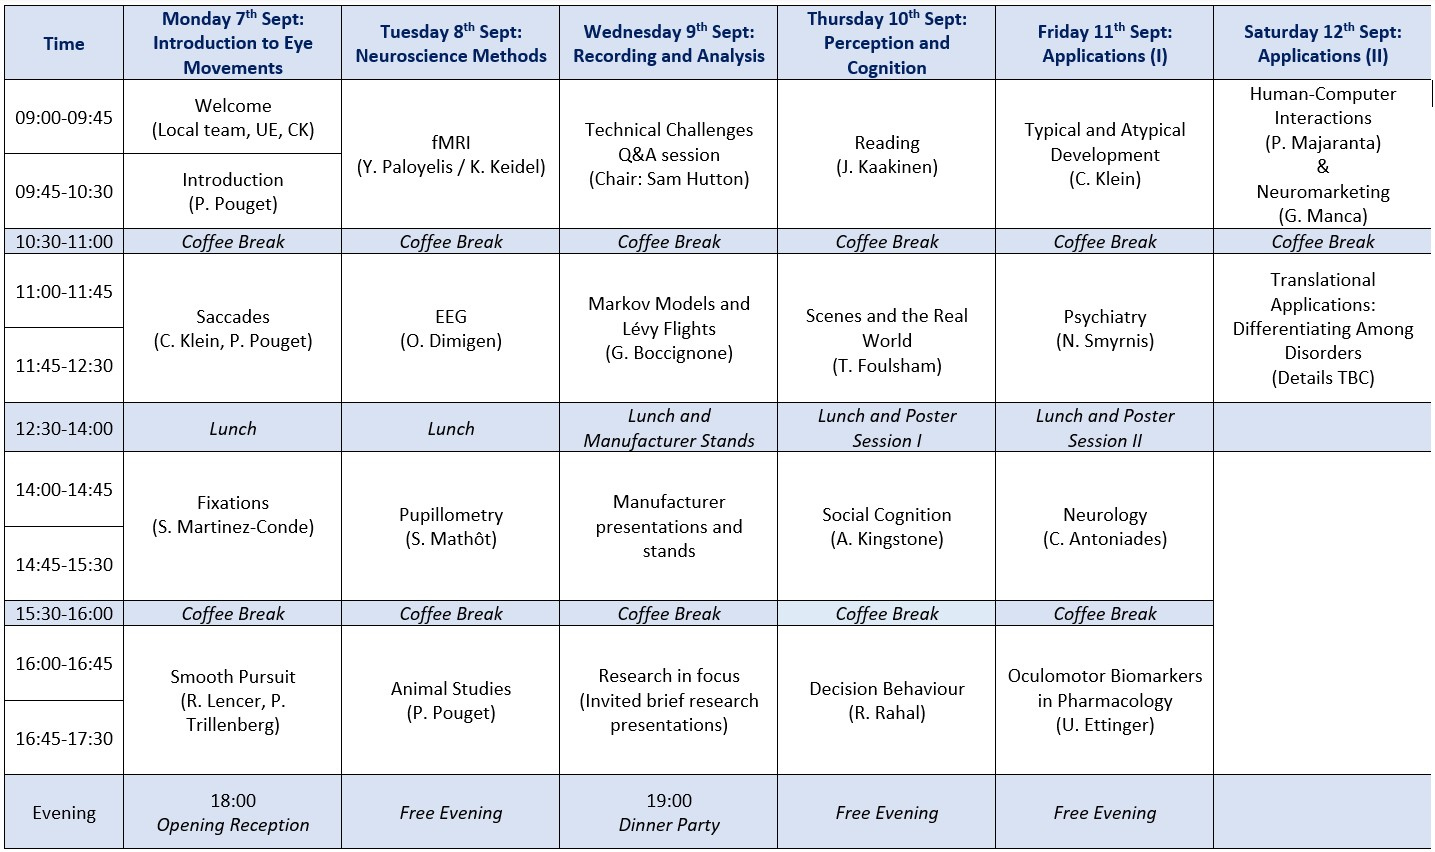
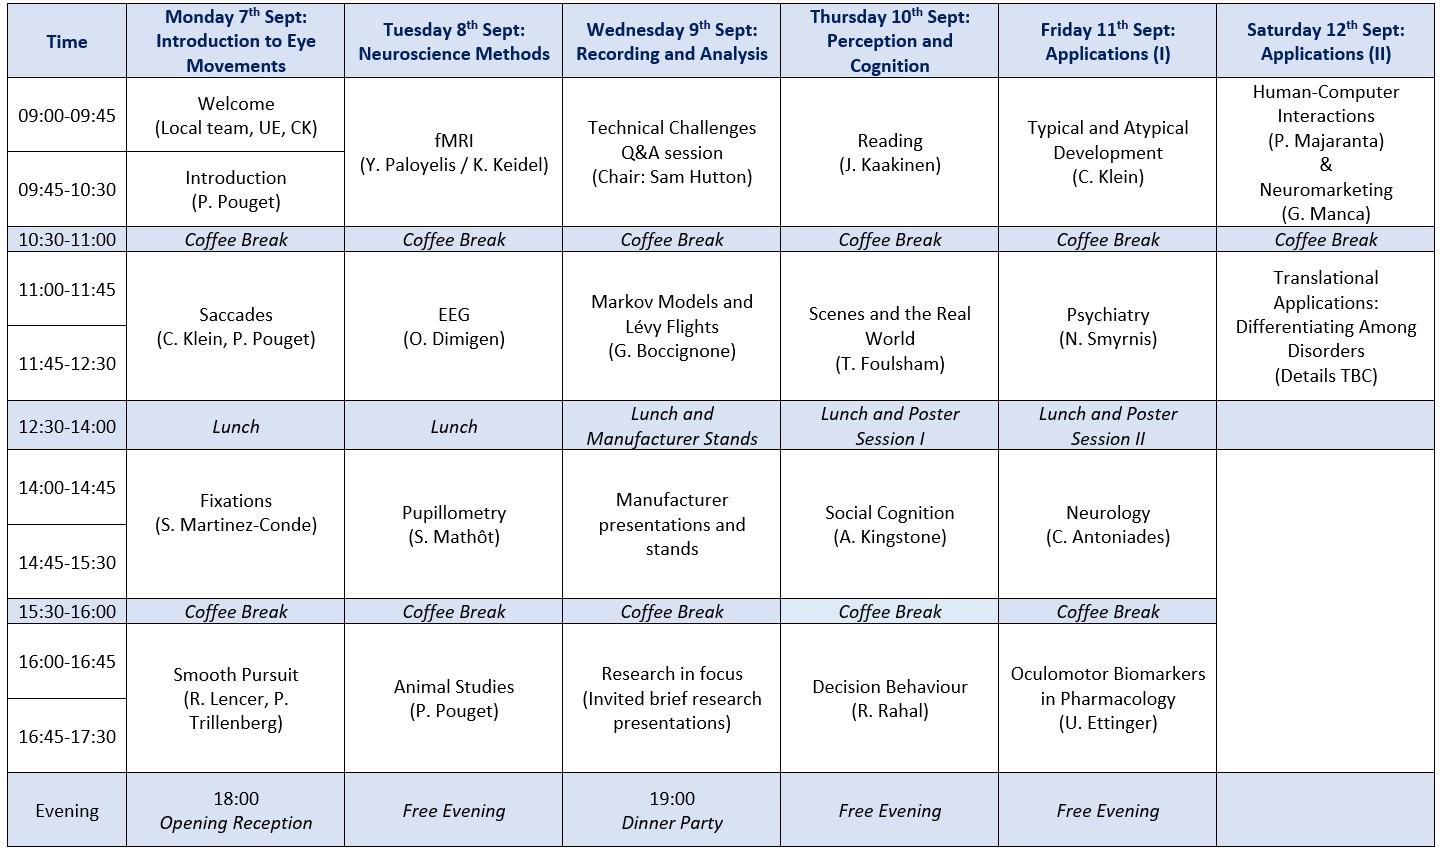
registration and contact page updates

diff --git a/html/register.html b/html/register.html
@@ -13,38 +13,38 @@
     <div id="nav-placeholder"></div>
 
     <main class="container my-5">
-        <h2 class="mb-3">Registration & Payment</h2>
-        <p>To register for ESSEM 2026, please follow the instructions below.The deadline for applications is 31st March 2026.</p>
-        <p>The course fee for ESSEM 2026 is &euro;TBC, which includes catering (lunch, tea/coffee) during the school.</p>
-        <p>Please register and pay the course fee via the link below. You will be redirected to a secure payment page.</p>
-
-        <p class="text-muted small">Test card: 4242424242424242</p>
-
-        <!-- payment -->
-        <p style="margin-top: 2rem;">
-        <!-- REPLACE WITH ACTUAL STRIPE PAYMENT LINK --> 
-        <a class="btn btn-primary btn-lg" href="https://buy.stripe.com/test_eVq7sNgqtgDO93w72v4Rq00"
-            target="_blank"
-            rel="noopener">
-            Register & Pay
-        </a>
+        <h2 class="mb-3">Registration</h2>
+        <p>
+            Registration for ESSEM is through application. You can apply by sending us a letter of motivation (one A4 page), your CV (max 2 pages), and an abstract for a poster you would like present. The poster can be about a project you have completed, one you are currently doing, or a project you would like to do in the future. Please ensure that your abstract is no more than 250 words, and include your name, affiliation, your status (UG student, Postgraduate taught student, PhD Student, Post-doc, Faculty).
         </p>
 
-        <!-- poster abstract submission -->
-        <hr class="my-5">
-
-        <h2 class="mb-3">Poster Abstract Submission</h2>
-        <p class="alert alert-warning">Only registered participants will be considered for poster presentations.</p>
-        <p>Please submit the title and abstract for your poster presentation using the form below.
-        Only registered participants will be considered. Abstracts must be a maximum of <strong>250 words</strong>.</p>
-
         <p>
-        <!-- REPLACE WITH ACTUAL GOOGLE FORM LINK -->   
-        <a class="btn btn-primary btn-lg" 
-            href="https://forms.gle/qbpTSJiL2VtXLUVx5" 
-            target="_blank" rel="noopener">
-            Submit Poster Abstract
-        </a>
+
+            
+        <div class="mb-4 p-3 border rounded bg-light">
+            <h4>Timeline</h4>
+            <ul class="list-unstyled">
+                <li><strong>Application deadline:</strong> 31st March 2026.
+                    <br/> 
+                    Please submit your application using the form below.
+                    <br/> 
+                    <!-- REPLACE WITH ACTUAL GOOGLE FORM LINK -->   
+                    <a class="btn btn-primary btn-lg my-3" 
+                        href="https://forms.gle/qbpTSJiL2VtXLUVx5" 
+                        target="_blank" rel="noopener">
+                        Application Submission
+                    </a>
+                </li>
+                <li><strong>Notification:</strong> Successful applicants will be notified by 10th April, 2026.</li>
+                <li><strong>Enrolment:</strong> If successful, you must enrol by paying the registration fee by 15th May, 2026.</li>
+            </ul>
+            <p>
+                After this date, we will offer the remaining places to other applicants on a first-paid, first-served basis.
+            </p>
+        </div>
+        <p>
+            Cancellations & refunds will only be considered in exceptional cases and will be at the discretion of the organisers. No requests for refunds will be considered after 30th June 2026.   
+        </p>
         </p>
 
     </main>

diff --git a/html/nav.html b/html/nav.html
@@ -21,7 +21,7 @@
                 <li class="nav-item"><a class="nav-link" href="/html/speakers.html">Speakers</a></li>
                 <li class="nav-item"><a class="nav-link" href="/html/programme.html">Programme</a></li>
                 <li class="nav-item"><a class="nav-link" href="/html/register.html">Register</a></li>
-                <li class="nav-item"><a class="nav-link" href="/html/support.html">Support</a></li>
+                <!-- <li class="nav-item"><a class="nav-link" href="/html/support.html">Support</a></li> -->
                 <li class="nav-item"><a class="nav-link" href="/html/contact.html">Contact</a></li>
                 <li class="nav-item"><a class="nav-link" target="_blank" href="/html/privacy.html" hidden>Privacy</a></li>
             </ul>

diff --git a/html/contact.html b/html/contact.html
@@ -13,10 +13,6 @@
     <main class="container my-5">
         <h1 class="mb-4">Contact ESSEM</h1>
         <div class="mb-4">
-            <p>ESSEM 2024 is organised by 
-                <a href="https://www.kcl.ac.uk/people/yannis-paloyelis" target="_blank">Yannis Paloyelis</a> and 
-                <a href="#john-doe" target="_blank">John DDoe</a>.
-            </p>
             <p>If you would like any information on ESSEM 2026, please email us at 
                 <a href="mailto:yannis.paloyelis@kcl.ac.uk">yannis.paloyelis@kcl.ac.uk</a>.
             </p>
